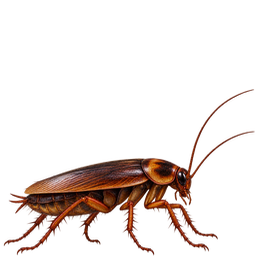
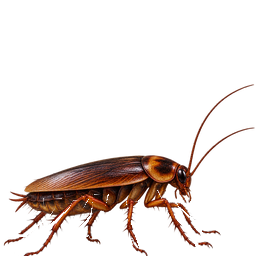
ROACH-15: approve run articulation and add jump fall candidates v1

Changed region(s): [[0.0, 0.3125, 1.0, 1.0]]

diff --git a/scripts/roach-premium-air-articulate.py b/scripts/roach-premium-air-articulate.py
@@ -1,0 +1,68 @@
+from PIL import Image, ImageDraw, ImageChops
+from pathlib import Path
+import hashlib, json
+
+ROOT = Path(__file__).resolve().parents[1]
+SRC = ROOT / 'public/assets/player/premium-v1/frames/idle/roach_idle_01.png'
+BASE = Image.open(SRC).convert('RGBA')
+
+LEGS = [
+    ('rear_near', [(73,200),(88,199),(72,224),(45,253),(17,255),(12,247),(49,225),(69,207)], (80,207)),
+    ('mid_near', [(126,201),(138,200),(160,241),(158,256),(142,256),(128,214)], (133,207)),
+    ('front_near', [(175,201),(187,198),(222,239),(222,255),(201,255),(177,214)], (183,205)),
+    ('rear_far', [(43,198),(61,198),(49,216),(25,236),(4,237),(4,228),(28,220),(43,207)], (53,206)),
+    ('mid_far', [(94,194),(108,194),(103,211),(90,235),(78,239),(76,231),(90,215)], (101,204)),
+    ('front_far', [(157,190),(171,190),(177,205),(201,226),(202,236),(190,233),(168,211)], (166,201)),
+]
+JUMP_SEQUENCE = [
+    [6,-8,5,-5,7,-4],
+    [-10,12,-8,8,-10,7],
+    [-14,15,-12,11,-13,10],
+    [-5,6,-4,4,-5,3],
+]
+FALL_SEQUENCE = [
+    [10,-7,12,-8,6,-8],
+    [4,-10,5,-4,9,-5],
+]
+
+def rotate_masked(base_img, poly, angle, pivot):
+    if abs(angle) < 0.01:
+        return base_img
+    mask = Image.new('L', base_img.size, 0)
+    ImageDraw.Draw(mask).polygon(poly, fill=255)
+    mask = ImageChops.multiply(mask, base_img.getchannel('A'))
+    part = Image.new('RGBA', base_img.size, (0,0,0,0))
+    part.paste(base_img, (0,0), mask)
+    clean = base_img.copy()
+    clean.putalpha(ImageChops.subtract(clean.getchannel('A'), mask))
+    rotated = part.rotate(angle, resample=Image.Resampling.BICUBIC, center=pivot, expand=False)
+    return Image.alpha_composite(clean, rotated)
+def build_family(name, sequence):
+    outdir = ROOT / f'public/assets/player/premium-v1/frames/{name}'
+    outdir.mkdir(parents=True, exist_ok=True)
+    rows = []
+    names = [n for n, _, _ in LEGS]
+    for idx, angles in enumerate(sequence, 1):
+        frame = BASE.copy()
+        for (_, poly, pivot), angle in zip(LEGS, angles):
+            frame = rotate_masked(frame, poly, angle, pivot)
+        fp = outdir / f'roach_{name}_{idx:02d}.png'
+        frame.save(fp, optimize=True)
+        data = fp.read_bytes()
+        rows.append({
+            'index': idx,
+            'path': fp.relative_to(ROOT).as_posix(),
+            'sha256': hashlib.sha256(data).hexdigest(),
+            'alphaBounds': list(frame.getchannel('A').getbbox()),
+            'anglesDeg': dict(zip(names, angles)),
+        })
+    return rows
+
+def main():
+    print(json.dumps({
+        'jump': build_family('jump', JUMP_SEQUENCE),
+        'fall': build_family('fall', FALL_SEQUENCE),
+    }, indent=2))
+
+if __name__ == '__main__':
+    main()

diff --git a/scripts/roach-premium-air-articulation-qa.py b/scripts/roach-premium-air-articulation-qa.py
@@ -1,0 +1,30 @@
+from pathlib import Path
+from PIL import Image, ImageChops
+import hashlib, json
+
+ROOT=Path(__file__).resolve().parents[1]
+BASE=Image.open(ROOT/'public/assets/player/premium-v1/frames/idle/roach_idle_01.png').convert('RGBA')
+LOCK_BOX=(0,0,256,189)
+
+for name,count in [('jump',4),('fall',2)]:
+    manifest=json.loads((ROOT/f'art/source/player/premium-v1/frames/{name}/{name}_family.manifest.json').read_text(encoding='utf-8'))
+    if manifest.get('status')!='ARTICULATION_CANDIDATE_V1':
+        raise SystemExit(f'{name} status drift: {manifest.get("status")}')
+    if manifest.get('runtimeReady') is not False:
+        raise SystemExit(f'{name} promoted too early')
+    if manifest.get('upperBodyLockRegion') != [0,0,256,189]:
+        raise SystemExit(f'{name} upper body lock drift')
+    if len(manifest.get('frames',[])) != count:
+        raise SystemExit(f'{name} frame count drift')
+    for frame in manifest['frames']:
+        p=ROOT/frame['path']
+        im=Image.open(p).convert('RGBA')
+        if hashlib.sha256(p.read_bytes()).hexdigest()!=frame['sha256']:
+            raise SystemExit(f'{name} hash drift frame {frame["index"]}')
+        if im.size!=(256,256):
+            raise SystemExit(f'{name} size drift frame {frame["index"]}')
+        if ImageChops.difference(BASE.crop(LOCK_BOX),im.crop(LOCK_BOX)).getbbox() is not None:
+            raise SystemExit(f'{name} upper identity drift frame {frame["index"]}')
+        if im.getchannel('A').getbbox()!=(1,84,255,256):
+            raise SystemExit(f'{name} alpha bounds drift frame {frame["index"]}')
+print('PASS ROACH-15 JUMP/FALL articulation QA: locked upper identity and deterministic six-leg airborne poses')

diff --git a/scripts/roach-premium-run-articulation-qa.py b/scripts/roach-premium-run-articulation-qa.py
@@ -7,7 +7,7 @@ manifest=json.loads((ROOT/'art/source/player/premium-v1/frames/run/run_family.ma
 base=Image.open(ROOT/'public/assets/player/premium-v1/frames/idle/roach_idle_01.png').convert('RGBA')
 lock_box=(0,0,256,189)
 
-if manifest.get('status')!='ARTICULATION_CANDIDATE_V1':
+if manifest.get('status')!='ARTICULATION_VISUAL_APPROVED_RUNTIME_PENDING':
     raise SystemExit(f'run status drift: {manifest.get("status")}')
 if manifest.get('runtimeReady') is not False:
     raise SystemExit('run promoted too early')
